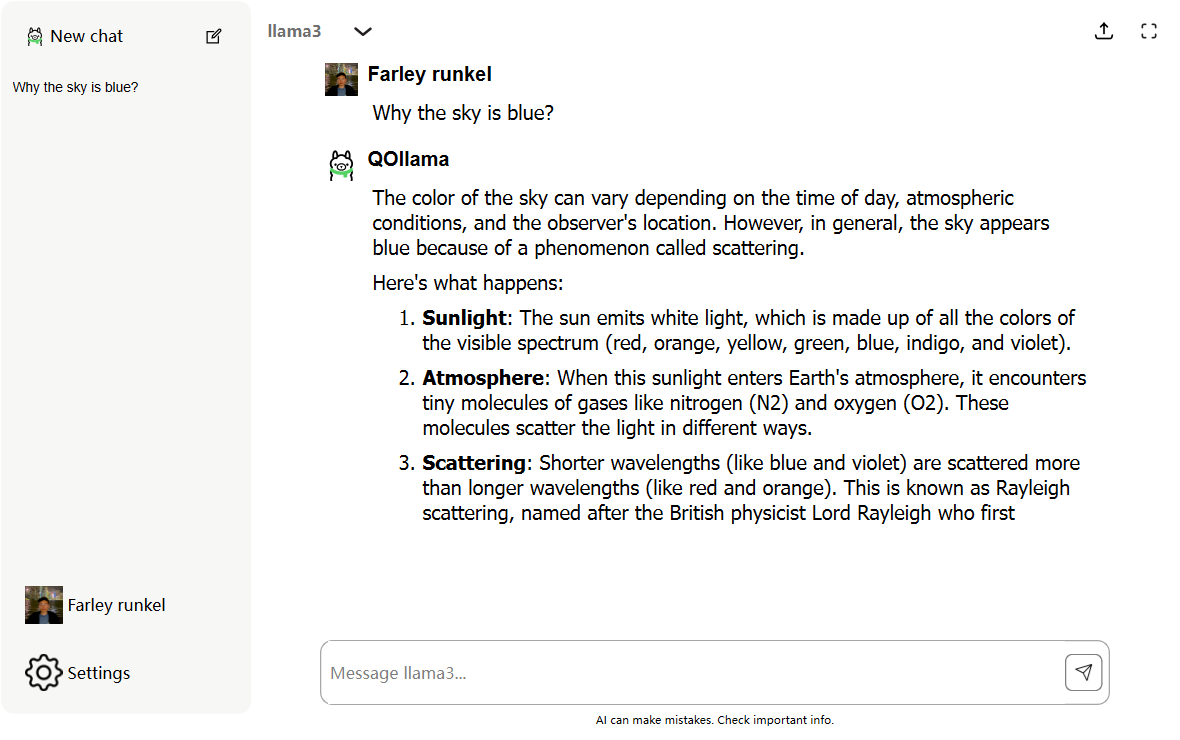
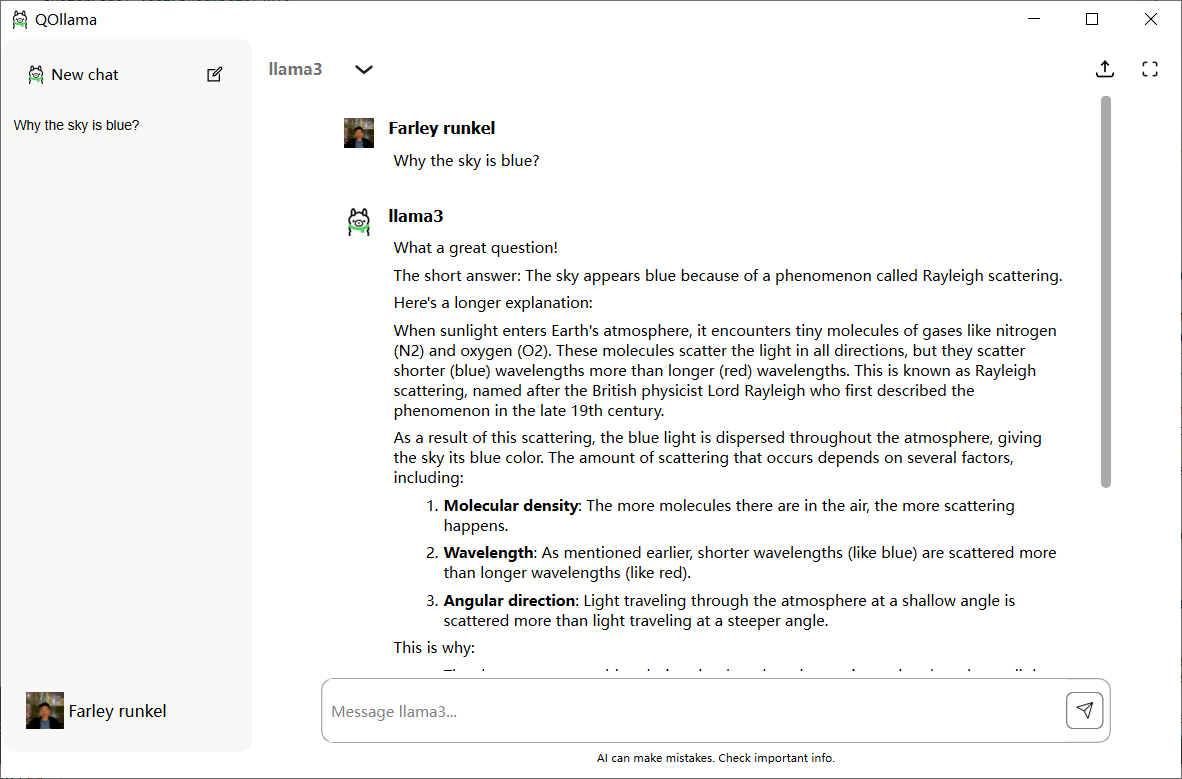
big fix

diff --git a/src/ichatwidget.cpp b/src/ichatwidget.cpp
@@ -3,8 +3,9 @@
 
 IAutoResizeTextBrowser::IAutoResizeTextBrowser(QWidget *parent) : QTextBrowser(parent) {
     setSizePolicy(QSizePolicy::Preferred, QSizePolicy::Minimum);
-    setVerticalScrollBarPolicy(Qt::ScrollBarAlwaysOff);\
-        setFrameShape(Shape::NoFrame);
+    setVerticalScrollBarPolicy(Qt::ScrollBarAlwaysOff);
+    setContentsMargins(0, 0, 0, 0);
+    setFrameShape(Shape::NoFrame);
     updateHeight();
 
     connect(this, &QTextEdit::textChanged, this, &IAutoResizeTextBrowser::updateHeight);
@@ -20,20 +21,24 @@ void IAutoResizeTextBrowser::updateHeight() {
     setFixedHeight(document()->size().height());
 }
 
+
 IMessageWidget::IMessageWidget(const QString &userName, const QPixmap &avatar, const QString &message, QWidget *parent)
     : QWidget(parent), messageText(nullptr) {
+    setContentsMargins(0, 0, 0, 0);
     QHBoxLayout* mainLayout = new QHBoxLayout(this);
 
     QVBoxLayout* avatarLayout = new QVBoxLayout();
     avatarLayout->setAlignment(Qt::AlignTop);
     QLabel* avatarLabel = new QLabel();
     avatarLabel->setPixmap(avatar.scaled(30, 30, Qt::KeepAspectRatio, Qt::SmoothTransformation));
-    avatarLabel->setFixedWidth(35);
+    avatarLabel->setFixedWidth(30);
+
     avatarLayout->addWidget(avatarLabel);
 
     QVBoxLayout* textLayout = new QVBoxLayout();
     QLabel* userNameLabel = new QLabel(userName, this);
     userNameLabel->setFrameShape(QFrame::Shape::NoFrame);
+    userNameLabel->setFont(QFont("Yahei", 10, QFont::Bold));
     messageText = new IAutoResizeTextBrowser(this);
     messageText->setMarkdown(message);
 
@@ -53,6 +58,7 @@ void IMessageWidget::appendMessage(const QString &message) {
 IChatWidget::IChatWidget(QWidget *parent) : QScrollArea(parent) {
     setWidgetResizable(true);
     setFrameShape(Shape::NoFrame);
+    setContentsMargins(0, 0, 0, 0);
     setStyleSheet("background-color: white;");
     latestMessageWidget = nullptr;
     chatContainer = new QWidget(this);

diff --git a/src/mainwindow.cpp b/src/mainwindow.cpp
@@ -20,10 +20,15 @@ MainWindow::MainWindow(QWidget *parent)
     this->setWindowIcon(QIcon("://icon/qollama.png"));
 
     ui->chatTabs->tabBar()->hide();
+    ui->sendButton->setDisabled(true);
+    ui->sendButton->setStatusTip("Waiting");
 
     connect(chatbot, &ChatBot::replyReceived, this, &MainWindow::appendWordToActiveChat);
+    connect(chatbot, &ChatBot::finish, [&](){  ui->sendButton->setIcon(QIcon(":/icon/arrow-up-circle.svg")); ui->sendButton->setStatusTip("Waiting");});
+    connect(ui->sendButton, &QPushButton::pressed,[&](){  ui->sendButton->setIcon(QIcon(":/icon/stop.svg")); ui->sendButton->setStatusTip("Pending");});
     connect(welcome, &IWelcomePage::send, this, &MainWindow::addMessage);
-    connect(ui->inputButton, &QPushButton::pressed, ui->inputLine, &QLineEdit::returnPressed);
+    connect(ui->sendButton, &QPushButton::pressed, ui->inputLine, &QLineEdit::returnPressed);
+
     connect(ui->newChatButton, &QPushButton::pressed, this, &MainWindow::addNewChat);
     connect(ui->historyList, &QListWidget::itemClicked, this, &MainWindow::onHistoryListItemClicked);
     connect(ui->expandButton, &QPushButton::pressed, this, &MainWindow::expandSideWidget);
@@ -175,5 +180,20 @@ void MainWindow::on_comboBox_activated(int index)
 {
     auto text = ui->comboBox->currentText();
     ui->inputLine->setPlaceholderText(QString("Message ") + text + "...");
+}
+
+
+void MainWindow::on_inputLine_textChanged(const QString &arg1)
+{
+    if ( ui->sendButton->statusTip() == "Pending") {
+        return;
+    }
+    if (arg1.isEmpty()) {
+        ui->sendButton->setDisabled(true);
+        ui->sendButton->setStatusTip("Waiting");
+    }
+    else {
+        ui->sendButton->setEnabled(true);
+    }
 }
 

diff --git a/src/chatbot.cpp b/src/chatbot.cpp
@@ -20,6 +20,7 @@ void ChatBot::reply(const QMap<QString, QString>& map) {
 
     m_reply = manager->post(request, QJsonDocument(json).toJson());
     QObject::connect(m_reply, &QNetworkReply::readyRead, this, &ChatBot::readResponseData);
+    QObject::connect(m_reply, &QNetworkReply::finished, this, &ChatBot::finish);
     QObject::connect(m_reply, &QNetworkReply::errorOccurred, this, [&](QNetworkReply::NetworkError error){emit replyReceived("NetworkError");});
 }
 

diff --git a/src/mainwindow.h b/src/mainwindow.h
@@ -41,6 +41,8 @@ private slots:
 
     void on_comboBox_activated(int index);
 
+    void on_inputLine_textChanged(const QString &arg1);
+
 private:
     Ui::MainWindow *ui;
     //std::vector<Document*> m_docus;
